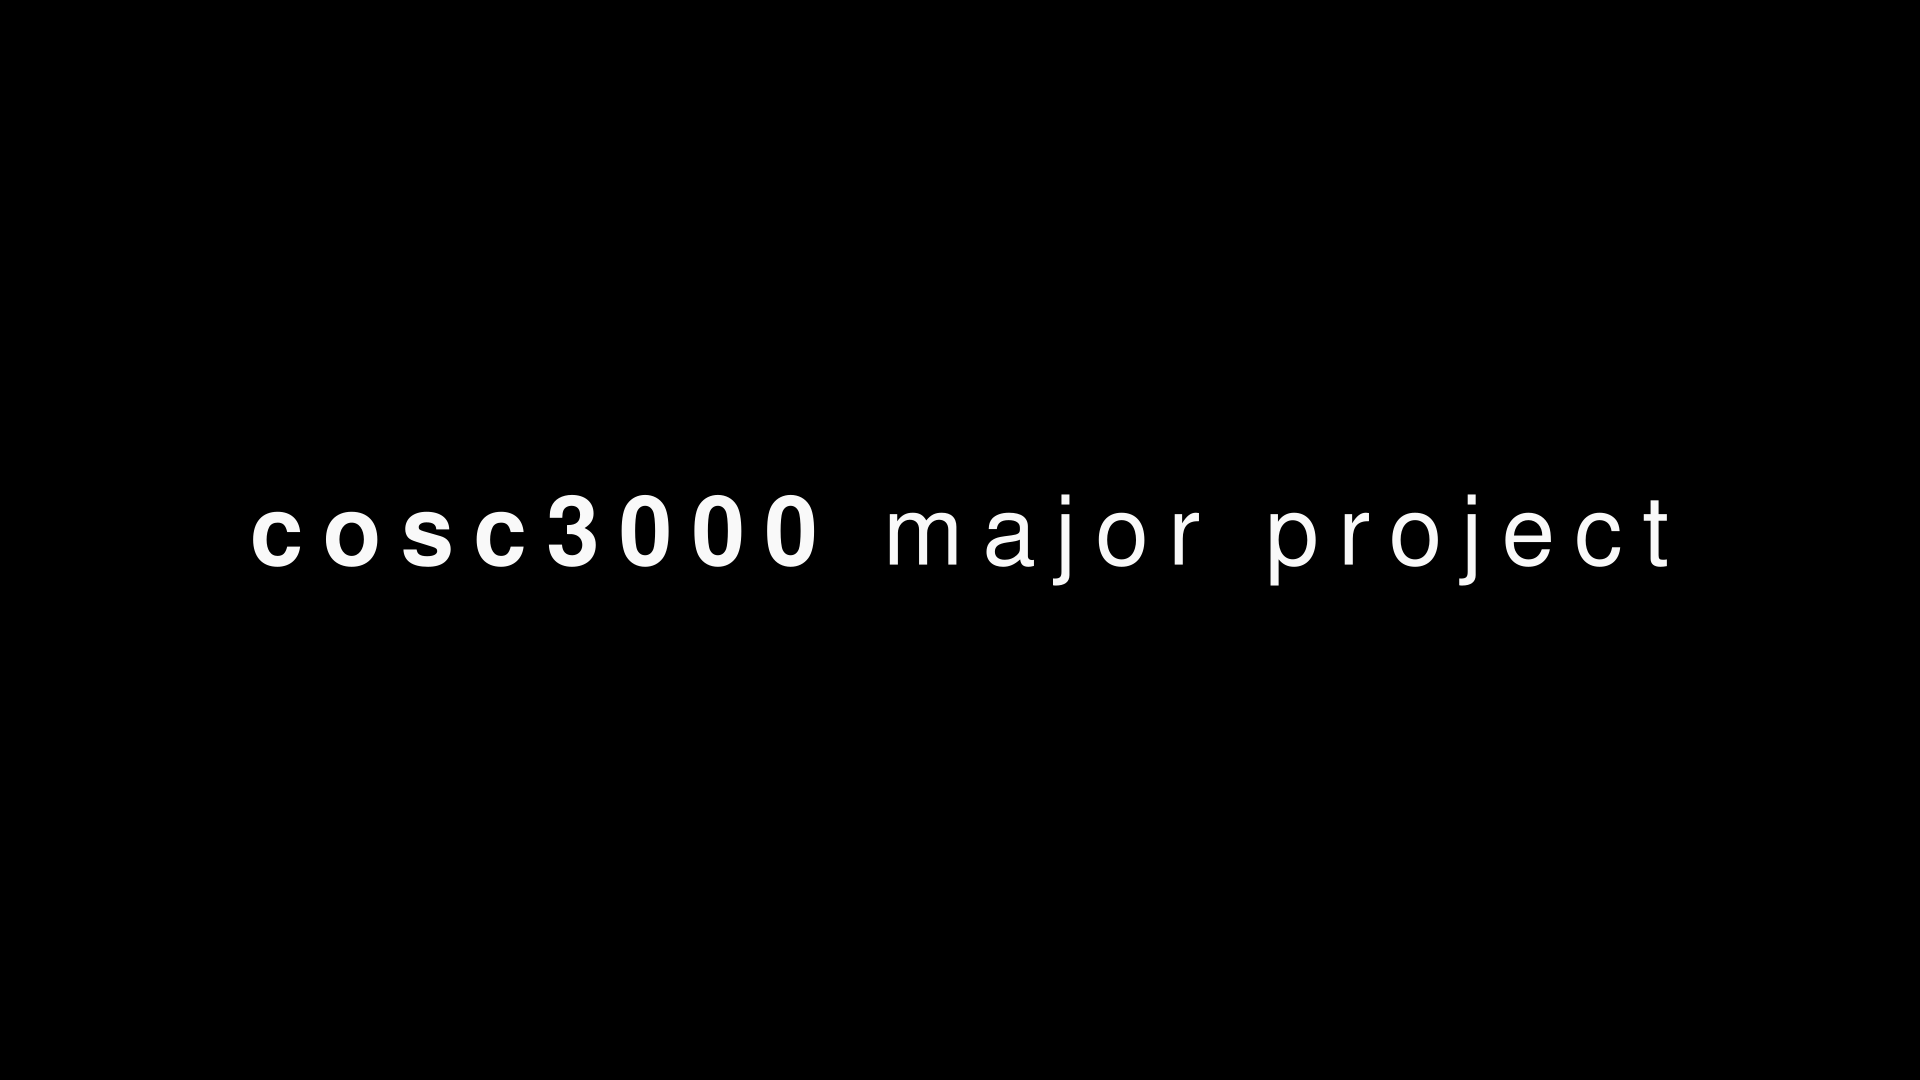
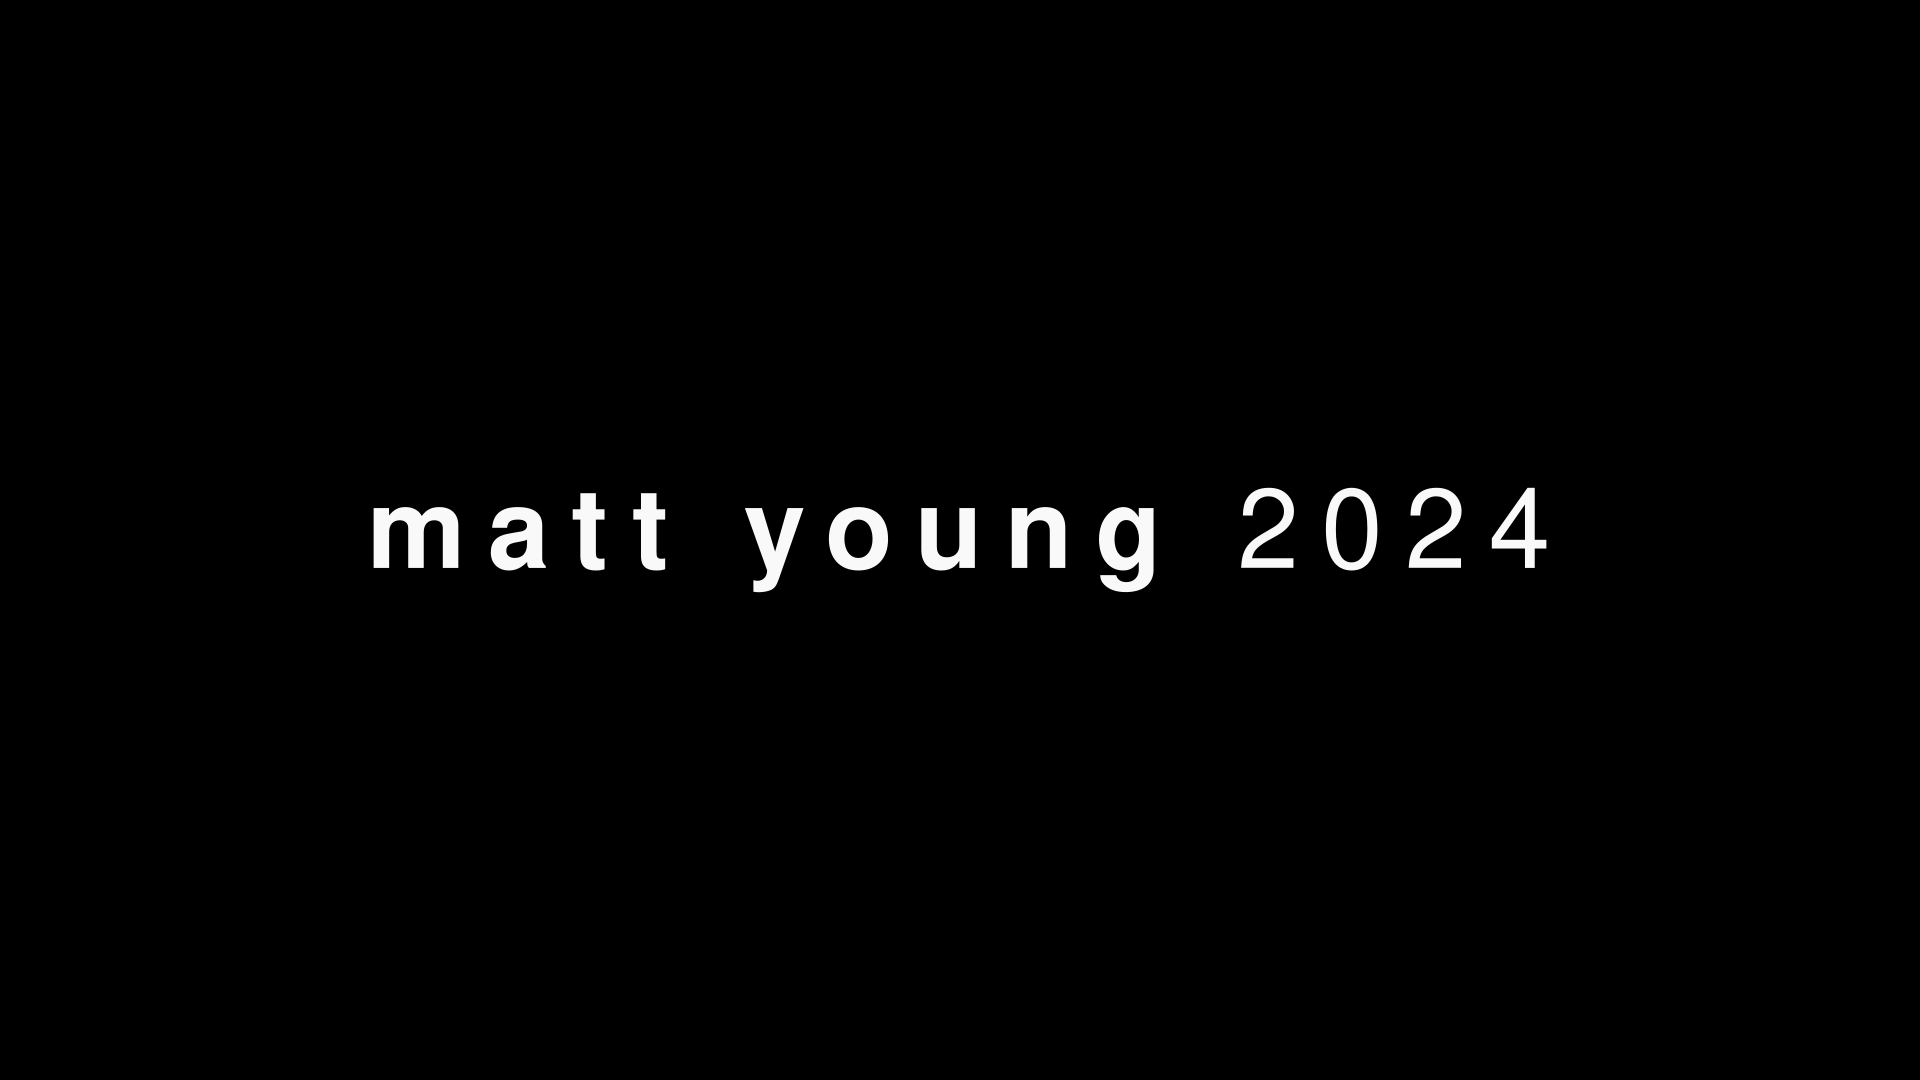
Added intro sequence! And fixed PNG RGBA loading

Changed region(s): [[0.125, 0.4583, 0.875, 0.55]]

diff --git a/src/main.cpp b/src/main.cpp
@@ -1,6 +1,7 @@
 #include "cosc/animation.hpp"
 #include "cosc/camera.hpp"
 #include "cosc/cubemap.hpp"
+#include "cosc/intro.hpp"
 #include "cosc/model.hpp"
 #include "cosc/shader.hpp"
 #include "cosc/util.hpp"
@@ -32,12 +33,16 @@ bool isCursorCapture = true;
 /// Freecam: Allows free movement for debugging
 bool isFreeCam = false;
 /// Application status
-cosc::AppStatus appStatus = cosc::AppStatus::RUNNING;
+cosc::AppStatus appStatus = cosc::AppStatus::INTRO;
+/// Which intro slide we're playing
+size_t introSlide = 0;
 
 /// Last frame delta time (seconds)
 float delta;
 //// Total elapsed time (seconds)
 float deltaSum;
+
+float introSlideTimer = 0.f;
 
 /// SDL audio callback
 static void audio_callback(void *userData, uint8_t *stream, int len) {
@@ -288,6 +293,7 @@ int main(int argc, char *argv[]) {
     addAnimations();
     cosc::Cubemap skybox(dataDir, "skybox");
     cosc::Shader barShader(dataDir / "bar.vert.glsl", dataDir / "bar.frag.glsl");
+    cosc::IntroManager intro(dataDir);
 
     // basically capture mouse, for FPS controls
     // note this is different from SDL_CaptureMouse though, but we are emulating the behaviour of what, for
@@ -312,44 +318,62 @@ int main(int argc, char *argv[]) {
         // process SDL input
         pollInputs();
 
-        // update camera animations
-        if (!isFreeCam && cosc::isNotInIntro(appStatus)) {
-            animationManager.update(delta);
-        }
-
         // clear screen
         glClearColor(0.0f, 0.0f, 0.0f, 1.0f);
         glClear(GL_COLOR_BUFFER_BIT | GL_DEPTH_BUFFER_BIT);
 
-        // enable our shader program (before we push uniforms)
-        barShader.use();
+        if (cosc::isInIntro(appStatus)) {
+            // update slides
+            if (introSlideTimer >= INTRO_SLIDE_TIME) {
+                SPDLOG_DEBUG("Next intro slide (currently {}, will be {})", introSlide, introSlide + 1);
+                introSlideTimer = 0.f;
+                introSlide++;
 
-        // push camera matrices to vertex shader (model transform is pushed later in draw)
-        barShader.setMat4("projection", camera.getProjectionMatrix());
-        barShader.setMat4("view", camera.getViewMatrix());
-        barShader.setVec3("viewPos", camera.getEyePoint());
+                // are we out of intro?
+                if (introSlide >= INTRO_NUM_SLIDES) {
+                    SPDLOG_INFO("Exiting intro!");
+                    appStatus = cosc::AppStatus::RUNNING;
+                }
+            }
 
-        // current bar we're editing
-        size_t barIdx = 0;
-        // current spectrum block
-        // note that songData.blockPos gets updated by mixAudio() (FIXME possible race condition?)
-        auto block = songData.spectrum.getBlocks()[songData.blockPos];
-        for (auto &bar : barModels) {
-            // first, get bar height from 0-255 directly from the Cap'n Proto
-            auto barHeight = block[barIdx];
-            // map that 0 to 255 to BAR_MIN_HEIGHT to BAR_MAX_HEIGHT
-            auto scale = cosc::util::mapRange(0., 255., BAR_MIN_HEIGHT, BAR_MAX_HEIGHT, barHeight);
-            // apply scale, also applying our baseline BAR_SCALING factor!
-            bar.scale.y = scale * BAR_SCALING;
-            barIdx++;
+            introSlideTimer += delta;
+            intro.draw(introSlide);
+        } else {
+            // update camera animations
+            if (!isFreeCam) {
+                animationManager.update(delta);
+            }
 
-            // now update transforms, and off to the GPU we go!
-            bar.applyTransform();
-            bar.draw(barShader);
+            // enable our shader program (before we push uniforms)
+            barShader.use();
+
+            // push camera matrices to vertex shader (model transform is pushed later in draw)
+            barShader.setMat4("projection", camera.getProjectionMatrix());
+            barShader.setMat4("view", camera.getViewMatrix());
+            barShader.setVec3("viewPos", camera.getEyePoint());
+
+            // current bar we're editing
+            size_t barIdx = 0;
+            // current spectrum block
+            // note that songData.blockPos gets updated by mixAudio() (FIXME possible race condition?)
+            auto block = songData.spectrum.getBlocks()[songData.blockPos];
+            for (auto &bar : barModels) {
+                // first, get bar height from 0-255 directly from the Cap'n Proto
+                auto barHeight = block[barIdx];
+                // map that 0 to 255 to BAR_MIN_HEIGHT to BAR_MAX_HEIGHT
+                auto scale = cosc::util::mapRange(0., 255., BAR_MIN_HEIGHT, BAR_MAX_HEIGHT, barHeight);
+                // apply scale, also applying our baseline BAR_SCALING factor!
+                bar.scale.y = scale * BAR_SCALING;
+                barIdx++;
+
+                // now update transforms, and off to the GPU we go!
+                bar.applyTransform();
+                bar.draw(barShader);
+            }
+
+            // draw skybox!
+            skybox.draw(camera);
         }
-
-        // draw skybox!
-        skybox.draw(camera);
 
         SDL_GL_SwapWindow(window);
 

diff --git a/src/intro.cpp b/src/intro.cpp
@@ -1,0 +1,86 @@
+#include "cosc/intro.hpp"
+#include <spdlog/spdlog.h>
+#include "glad/gl.h"
+#include "cosc/lib/stb_image.h"
+
+constexpr size_t NUM_SLIDES = 3;
+
+// clang-format off
+// vertex attributes for a quad that fills the entire screen in Normalized Device Coordinates.
+float quadVertices[] = {
+    // positions   // texCoords
+    -1.0f,  1.0f,  0.0f, 1.0f,
+    -1.0f, -1.0f,  0.0f, 0.0f,
+     1.0f, -1.0f,  1.0f, 0.0f,
+
+    -1.0f,  1.0f,  0.0f, 1.0f,
+     1.0f, -1.0f,  1.0f, 0.0f,
+     1.0f,  1.0f,  1.0f, 1.0f
+};
+// clang-format on
+
+cosc::IntroManager::IntroManager(const fs::path &dataDir)
+    : shader(cosc::Shader(dataDir / "quad.vert.glsl", dataDir / "quad.frag.glsl")) {
+    SPDLOG_INFO("Initialising IntroManager");
+
+    int width, height, channels;
+    unsigned char *data;
+
+    SPDLOG_DEBUG("Generating intro quad mesh data");
+    glGenVertexArrays(1, &vao);
+    glGenBuffers(1, &vbo);
+    glBindVertexArray(vao);
+    glBindBuffer(GL_ARRAY_BUFFER, vbo);
+    glBufferData(GL_ARRAY_BUFFER, sizeof(quadVertices), &quadVertices, GL_STATIC_DRAW);
+    glEnableVertexAttribArray(0);
+    glVertexAttribPointer(0, 2, GL_FLOAT, GL_FALSE, 4 * sizeof(float), (void*)0);
+    glEnableVertexAttribArray(1);
+    glVertexAttribPointer(1, 2, GL_FLOAT, GL_FALSE, 4 * sizeof(float), (void*)(2 * sizeof(float)));
+
+    SPDLOG_DEBUG("Loading intro textures");
+    stbi_set_flip_vertically_on_load(true);
+
+    for (size_t i = 0; i < NUM_SLIDES; i++) {
+        auto path = dataDir / ("slide" + std::to_string(i) + ".png");
+        //auto path = dataDir / "intro_debug.png";
+        SPDLOG_DEBUG("Loading slide: {}", path.string());
+        data = stbi_load(path.c_str(), &width, &height, &channels, 0);
+        if (data == nullptr) {
+            throw std::runtime_error("Failed to decode image!");
+        }
+        SPDLOG_DEBUG("Retrieved a {}x{} image with {} channels", width, height, channels);
+
+        // generate a GL texture id
+        unsigned int texId;
+        glGenTextures(1, &texId);
+        glBindTexture(GL_TEXTURE_2D, texId);
+        // submit to OpenGL
+        glTexImage2D(GL_TEXTURE_2D, 0, GL_RGB, width, height, 0, GL_RGBA, GL_UNSIGNED_BYTE, data);
+        glGenerateMipmap(GL_TEXTURE_2D);
+        // has been copied to the GPU presumably, so we can free it here
+        //stbi_image_free(data);
+
+        textureIds.push_back(texId);
+    }
+
+    stbi_set_flip_vertically_on_load(false); // back to default setting
+}
+
+void cosc::IntroManager::draw(size_t slideNumber) {
+    if (slideNumber > textureIds.size()) {
+        SPDLOG_WARN("Requested slide number {} > textures array size {} - will not draw!", slideNumber,
+            textureIds.size());
+        return;
+    }
+
+    shader.use();
+    glBindVertexArray(vao);
+
+    // bind the texture that corresponds to the slide number
+    auto texId = textureIds[slideNumber];
+    shader.setInt("screenTextureeee", texId);
+    glBindTexture(GL_TEXTURE_2D, texId);
+
+    // draw the quad
+    glDrawArrays(GL_TRIANGLES, 0, 6);
+}

diff --git a/src/cubemap.cpp b/src/cubemap.cpp
@@ -77,7 +77,7 @@ cosc::Cubemap::Cubemap(const fs::path &dataDir, const fs::path &cubeMapDir)
     unsigned char *data;
     int i = 0;
     for (const auto &face : faces) {
-        auto facePath = dataDir / cubeMapDir / (face + ".jpg");
+        auto facePath = dataDir / cubeMapDir / (face + ".png");
 
         // load data from FS
         SPDLOG_DEBUG("Loading face: {} from path: {}", face, facePath.string());
@@ -88,8 +88,7 @@ cosc::Cubemap::Cubemap(const fs::path &dataDir, const fs::path &cubeMapDir)
         SPDLOG_DEBUG("Retrieved a {}x{} image with {} channels", width, height, channels);
 
         // submit to OpenGL
-        // FIXME ideally make this work with PNG RGBA - it's borked, hence we moved to JPEG
-        glTexImage2D(GL_TEXTURE_CUBE_MAP_POSITIVE_X + (i++), 0, GL_RGB, width, height, 0, GL_RGB, GL_UNSIGNED_BYTE, data);
+        glTexImage2D(GL_TEXTURE_CUBE_MAP_POSITIVE_X + (i++), 0, GL_RGB, width, height, 0, GL_RGBA, GL_UNSIGNED_BYTE, data);
         // has been copied to the GPU presumably, so we can free it here
         stbi_image_free(data);
 

diff --git a/include/cosc/util.hpp b/include/cosc/util.hpp
@@ -32,15 +32,15 @@ constexpr float BAR_MIN_HEIGHT = 1.0;
 constexpr float BAR_MAX_HEIGHT = 50.;
 
 /// Intro slide time in seconds
-constexpr float INTRO_SLIDE_TIME = 1.5;
+constexpr float INTRO_SLIDE_TIME = 3.0;
+
+constexpr size_t INTRO_NUM_SLIDES = 3;
 
 namespace cosc {
 enum class AppStatus {
-    INTRO_SLIDE1 = 0,
-    INTRO_SLIDE2 = 1,
-    INTRO_SLIDE3 = 2,
-    RUNNING = 3,
-    QUIT = 4
+    INTRO = 1,
+    RUNNING = 2,
+    QUIT = 3
 };
 
 constexpr bool isAppRunning(AppStatus status) {
@@ -49,6 +49,10 @@ constexpr bool isAppRunning(AppStatus status) {
 
 constexpr bool isNotInIntro(AppStatus status) {
     return status >= AppStatus::RUNNING;
+}
+
+constexpr bool isInIntro(AppStatus status) {
+    return status == AppStatus::INTRO;
 }
 
 };

diff --git a/include/cosc/intro.hpp b/include/cosc/intro.hpp
@@ -1,0 +1,22 @@
+#pragma once
+#include "cosc/shader.hpp"
+#include "cosc/util.hpp"
+#include <vector>
+
+namespace cosc {
+/// This class handles drawing the intro animation.
+class IntroManager {
+public:
+    explicit IntroManager(const fs::path &dataDir);
+
+    /// Draws the intro slide. Slide number is 0 indexed (0, 1, 2).
+    void draw(size_t slideNumber);
+
+private:
+    cosc::Shader shader;
+    /// Index in this array is the slide number (0, 1, 2) and the value is the GL texture ID.
+    std::vector<unsigned int> textureIds;
+    unsigned int vbo;
+    unsigned int vao;
+};
+}
